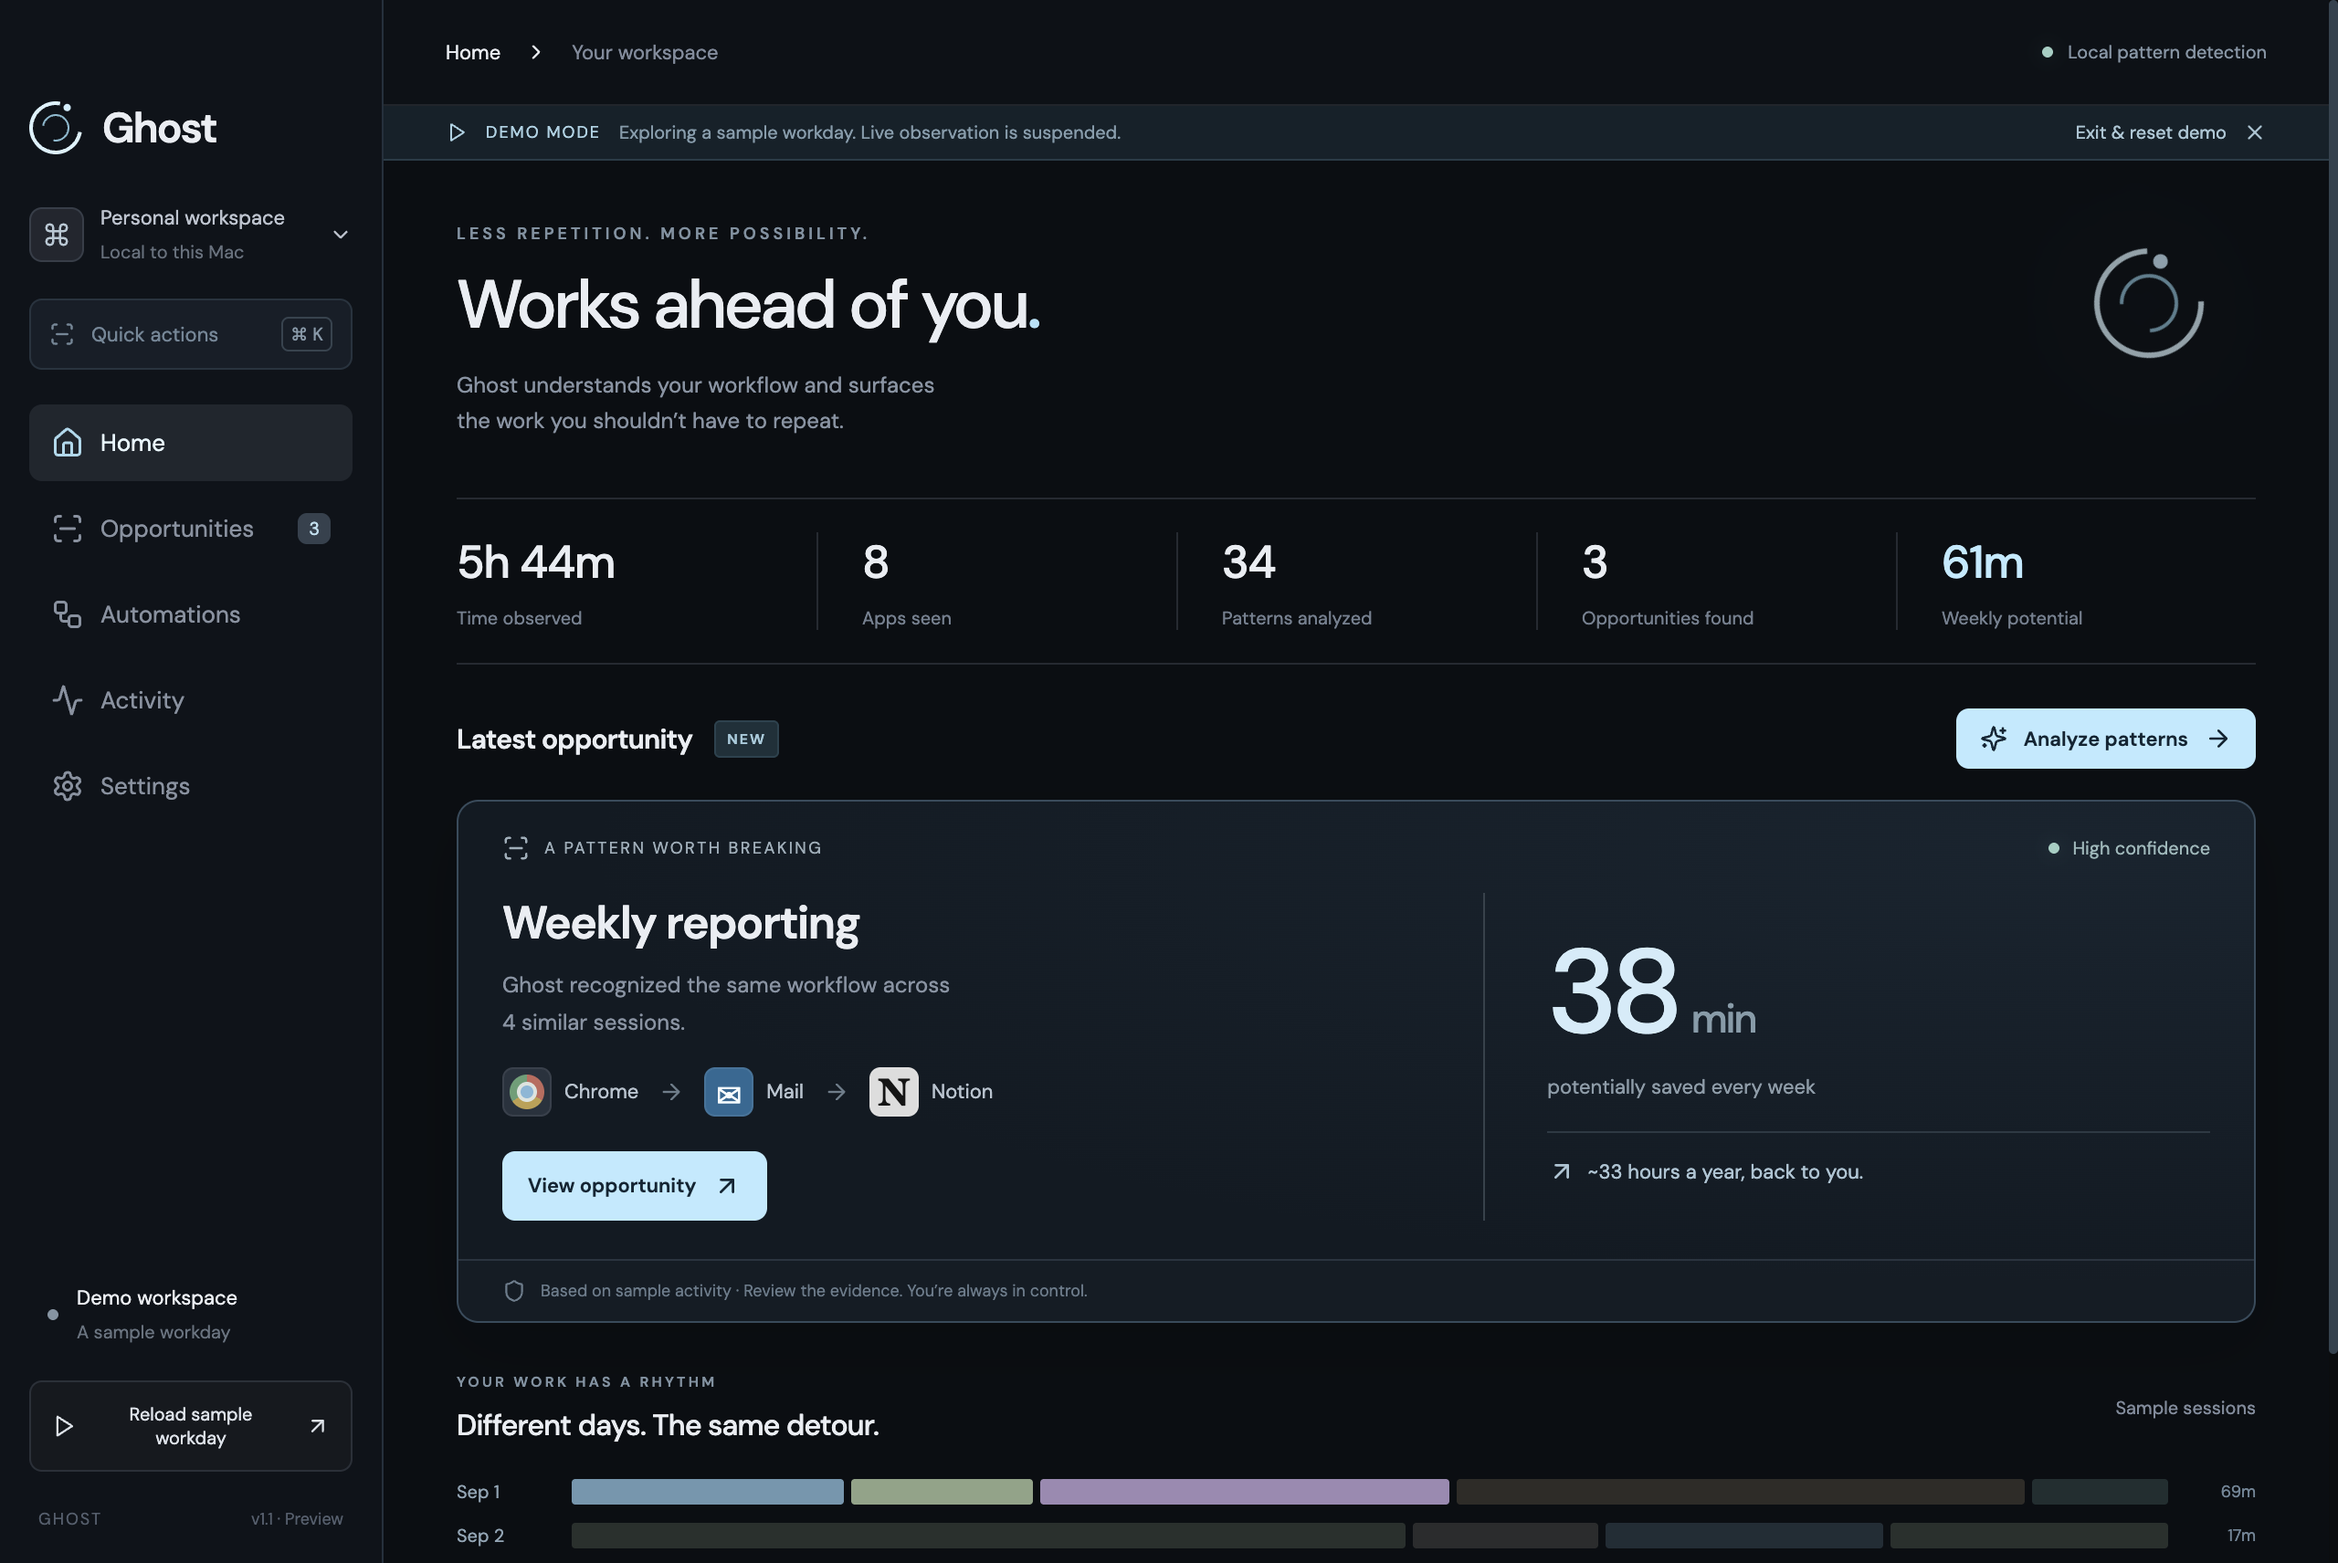
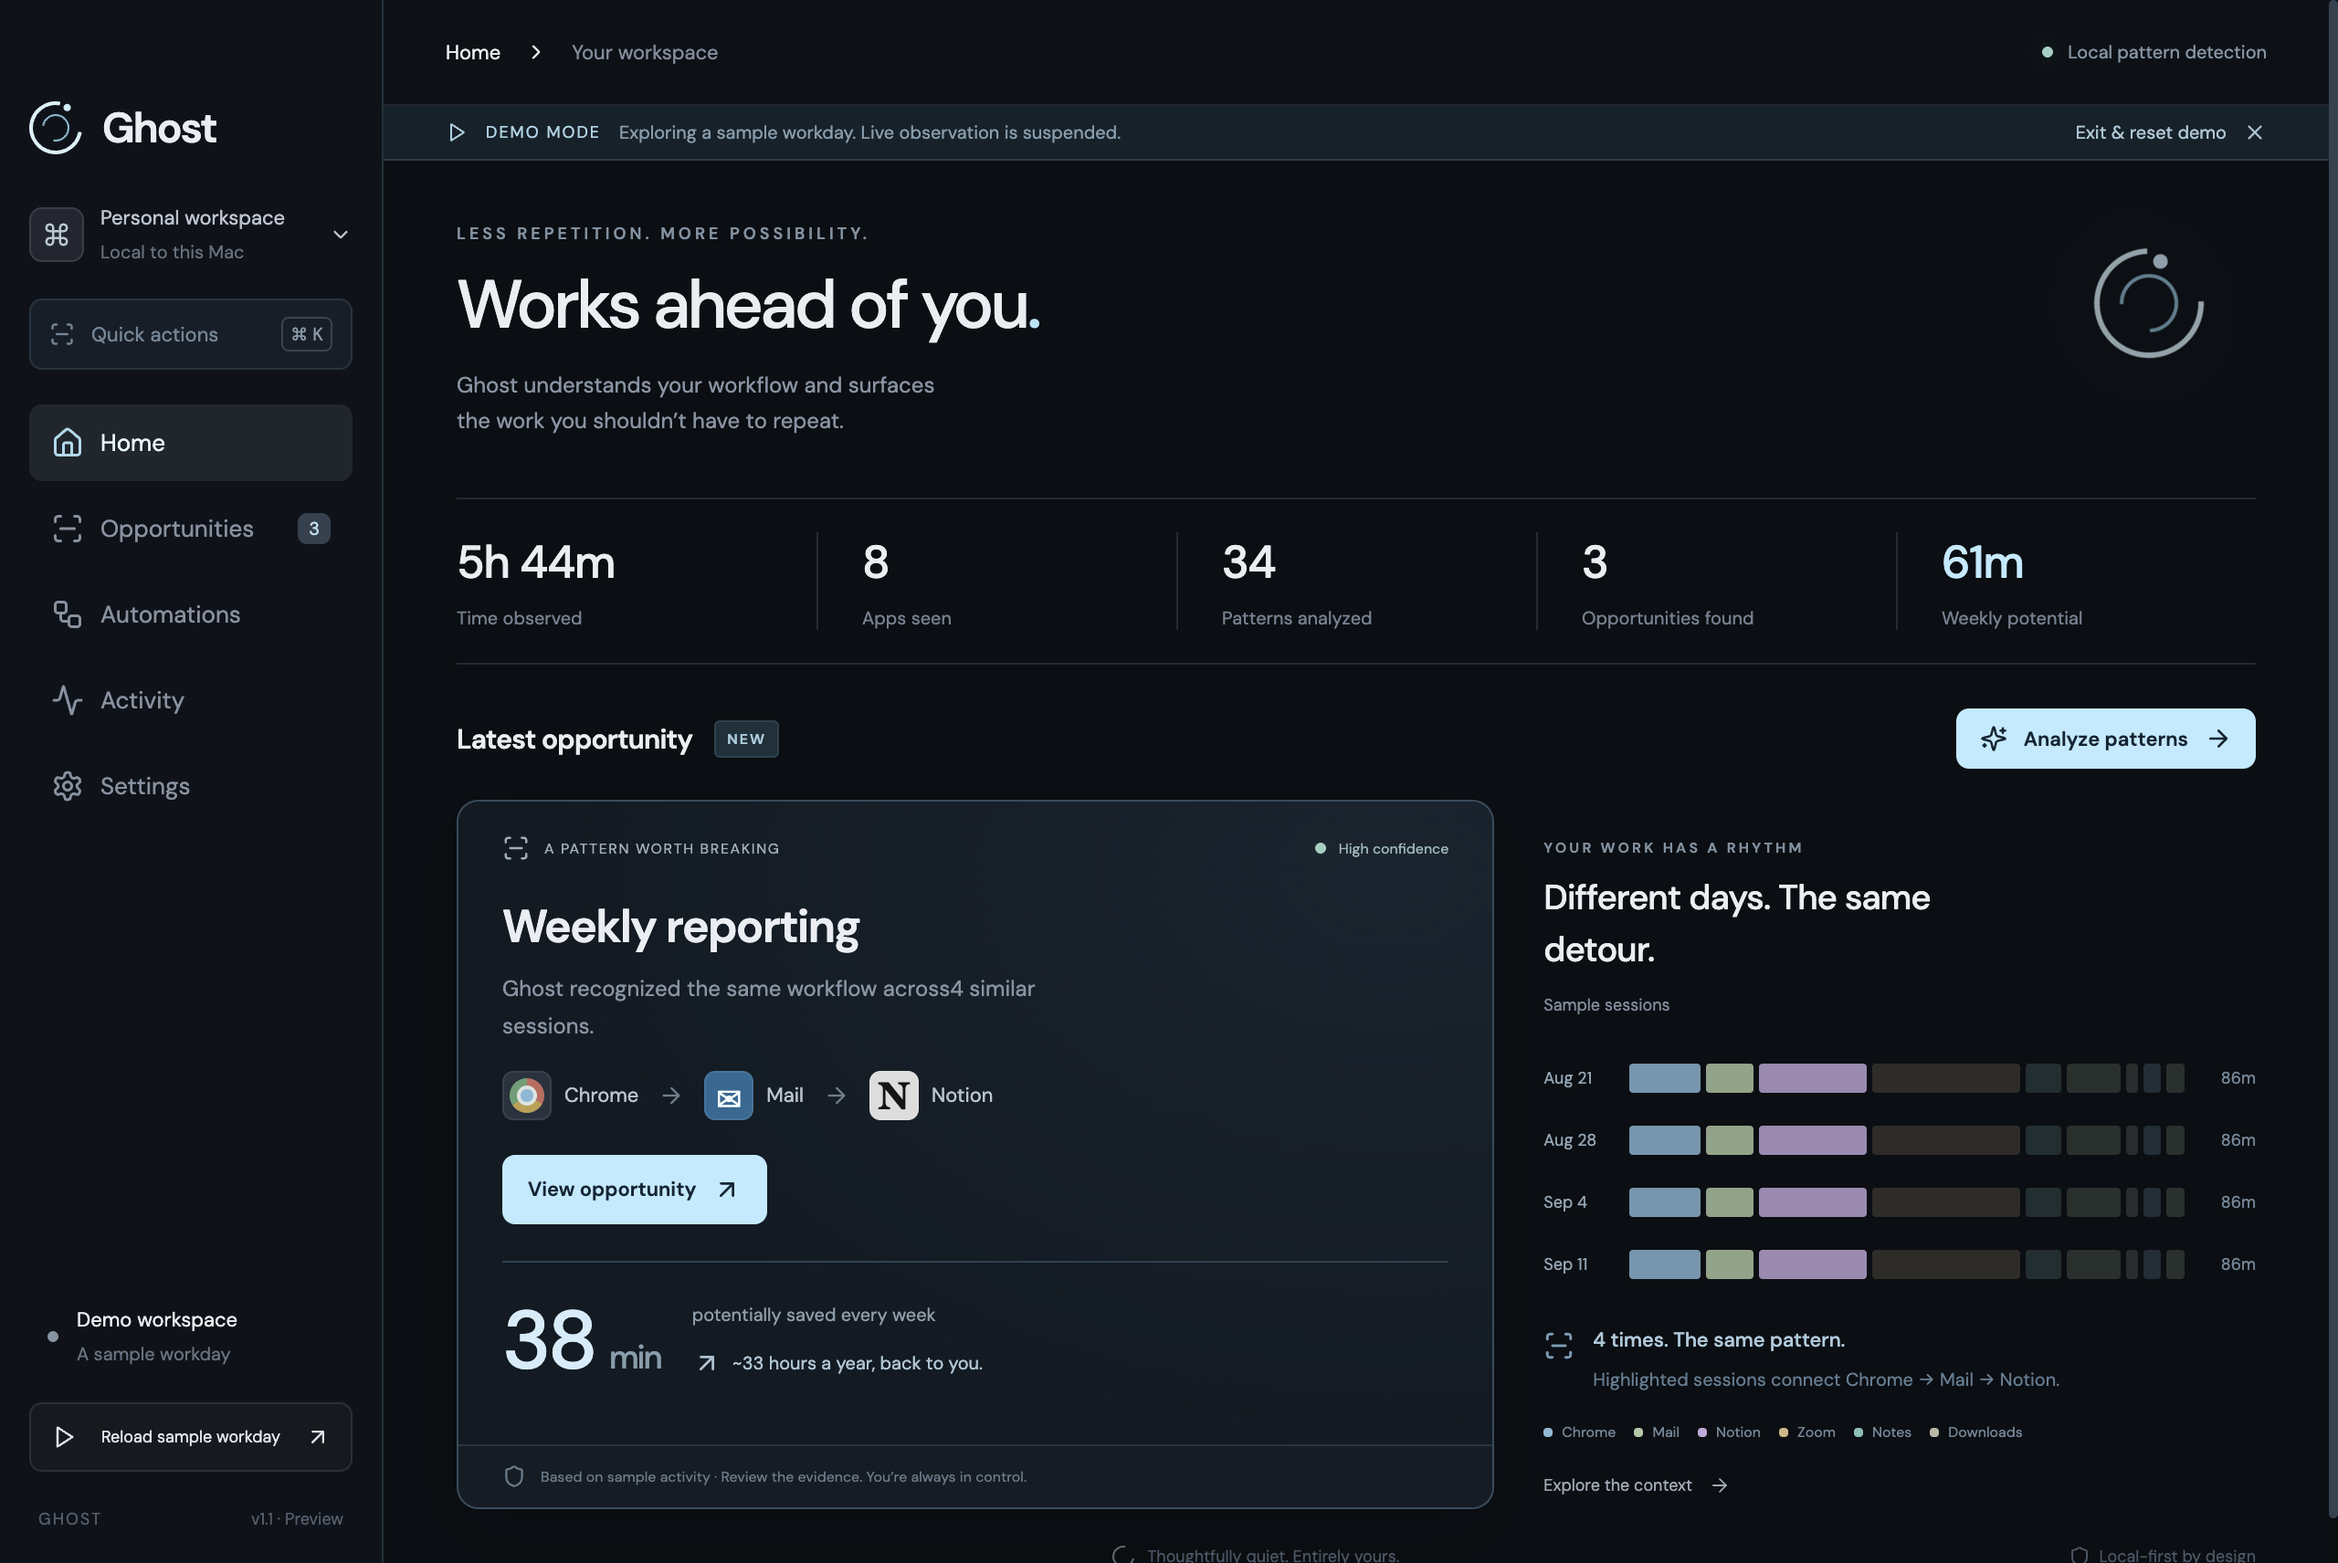
More work

diff --git a/tests/e2e/ai.spec.ts b/tests/e2e/ai.spec.ts
@@ -73,6 +73,62 @@ test("AI success and malformed response safely retain real evidence", async () =
     state = await page.evaluate(() => window.ghost.state());
     expect(state.analysisStatus).toContain("local results retained");
     expect(state.opportunities[0].engine).toBe("local");
+    await page.evaluate(async () => {
+      const s = await window.ghost.state();
+      await window.ghost.command("activate", {
+        id: s.opportunities[0].id,
+        trigger: "Every Friday",
+        steps: s.opportunities[0].steps,
+      });
+    });
+    await app.evaluate(() => {
+      globalThis.fetch = async () =>
+        new Response(
+          JSON.stringify({
+            choices: [
+              {
+                message: {
+                  content: JSON.stringify({
+                    sections: [
+                      {
+                        title: "At a glance",
+                        items: [
+                          "The supplied metrics show an increase in visitors.",
+                        ],
+                      },
+                    ],
+                  }),
+                },
+              },
+            ],
+          }),
+          { status: 200 },
+        );
+    });
+    let drafted = await page.evaluate(async () => {
+      const s = await window.ghost.state();
+      return window.ghost.command("runAutomation", {
+        id: s.automations[0].id,
+        context: "Metric,Previous,Current\nVisitors,100,140",
+        ai: true,
+      });
+    });
+    expect(drafted.automations[0].report?.engine).toBe("ai");
+    expect(drafted.automations[0].report?.metrics[0].changePercent).toBe(40);
+    await app.evaluate(() => {
+      globalThis.fetch = async () =>
+        new Response("Service unavailable", { status: 503 });
+    });
+    drafted = await page.evaluate(async () => {
+      const s = await window.ghost.state();
+      return window.ghost.command("runAutomation", {
+        id: s.automations[0].id,
+        context: "Metric,Previous,Current\nVisitors,100,140",
+        ai: true,
+      });
+    });
+    expect(drafted.automations[0].report?.engine).toBe("local-fallback");
+    expect(drafted.automations[0].draft).toContain("+40.0%");
   } finally {
     await app.close();
     fs.rmSync(dir, { recursive: true, force: true });

diff --git a/src/shared/report.ts b/src/shared/report.ts
@@ -14,6 +14,7 @@ export interface Report {
   metrics: ReportMetric[];
   sections: ReportSection[];
   sourceLines: number;
+  sample: boolean;
   engine: "local" | "ai" | "local-fallback";
 }
 export interface ReportRun {
@@ -102,6 +103,7 @@ export function buildReport(title: string, context: string): Report {
     createdAt: Date.now(),
     metrics,
     sourceLines: context.split("\n").filter(Boolean).length,
+    sample: context.trim() === SAMPLE_CONTEXT.trim(),
     engine: "local",
     sections: [
       {
@@ -115,7 +117,7 @@ export function buildReport(title: string, context: string): Report {
 }
 export function reportMarkdown(report: Report): string {
   return (
-    `# ${report.title}\n\n${new Date(report.createdAt).toLocaleDateString("en-US", { month: "long", day: "numeric", year: "numeric" })} · Draft for review\n\n` +
+    `# ${report.title}\n\n${new Date(report.createdAt).toLocaleDateString("en-US", { month: "long", day: "numeric", year: "numeric" })} · ${report.sample ? "Sample data · " : ""}Draft for review\n\n` +
     (report.metrics.length
       ? "| Metric | Previous | Current | Change |\n| --- | ---: | ---: | ---: |\n" +
         report.metrics

diff --git a/src/renderer/components/ReportStudio.tsx b/src/renderer/components/ReportStudio.tsx
@@ -227,9 +227,7 @@ export function ReportStudio({
                 <div className="paper-top">
                   <span>
                     GHOST /{" "}
-                    {current.opportunity.source === "demo"
-                      ? "SAMPLE REPORT"
-                      : "WORKSPACE REPORT"}
+                    {report.sample ? "SAMPLE REPORT" : "WORKSPACE REPORT"}
                   </span>
                   <span className="paper-status">DRAFT</span>
                 </div>
